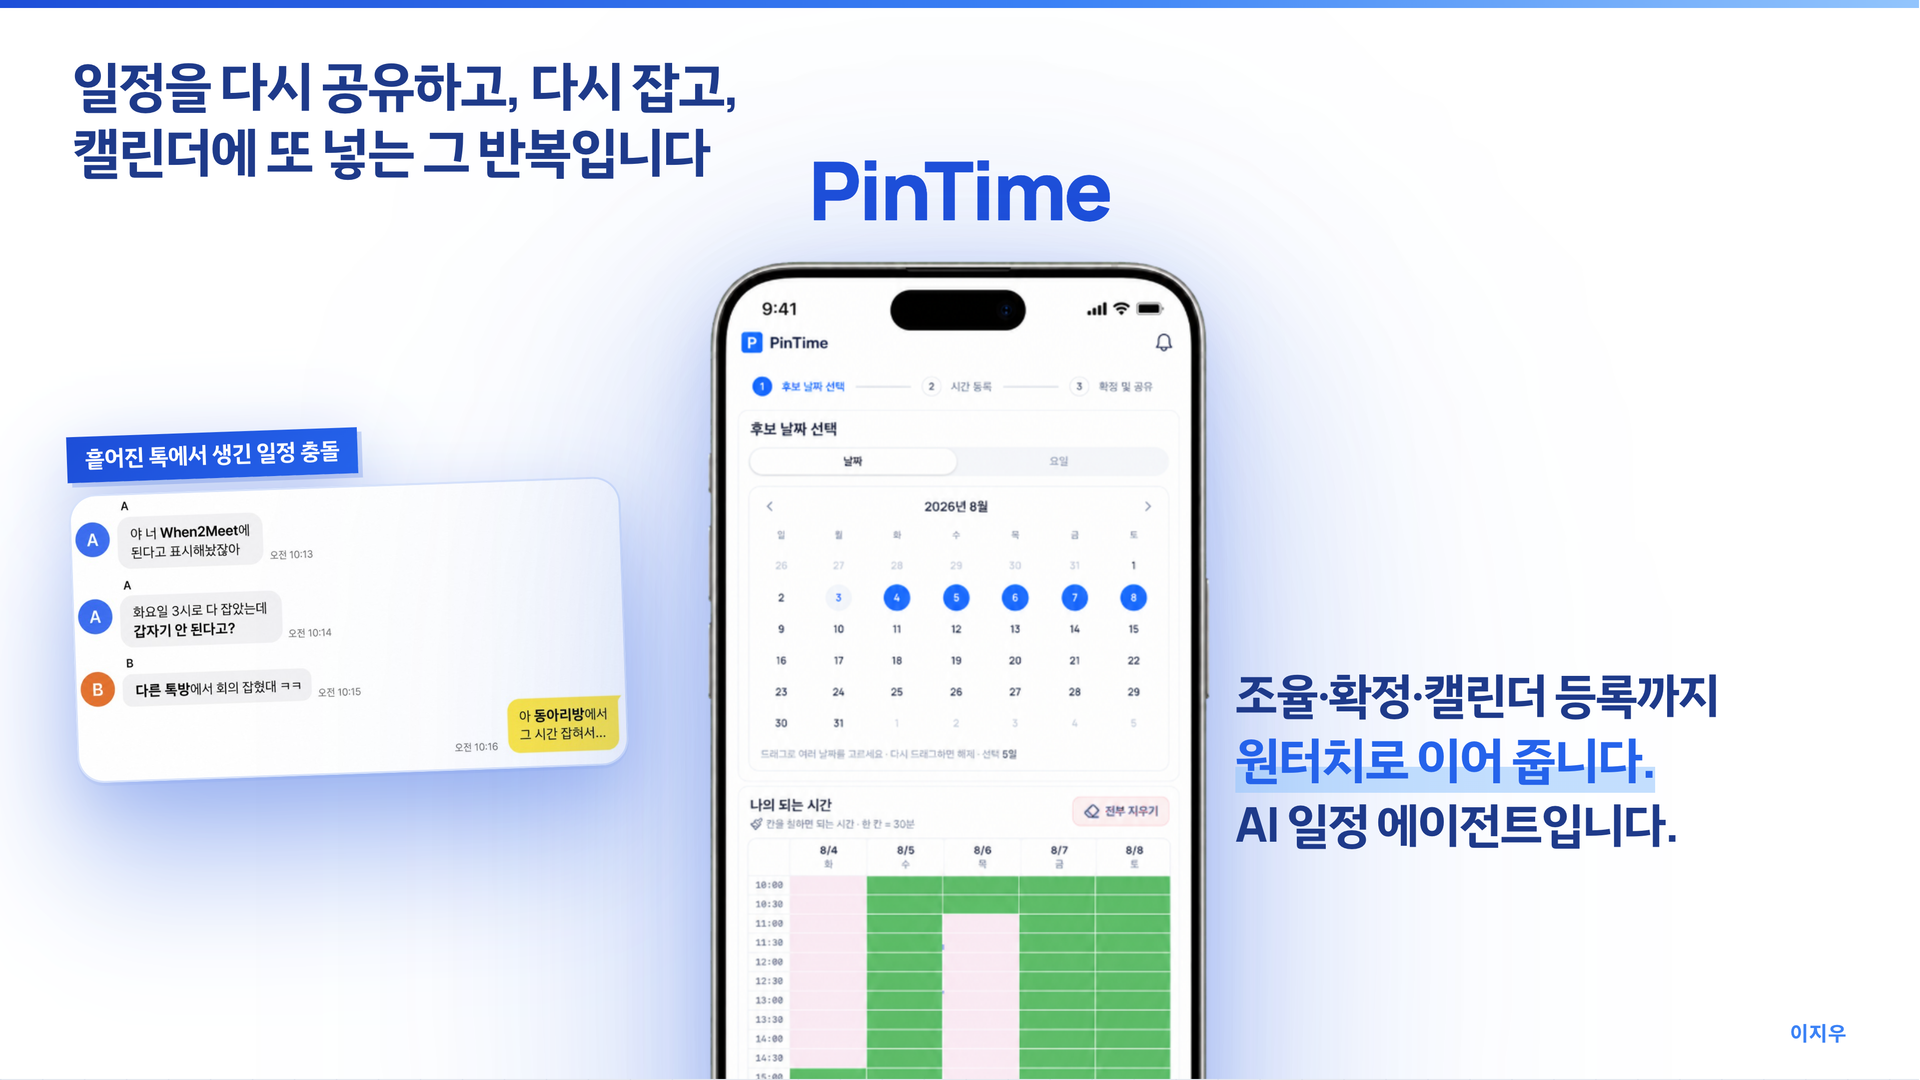
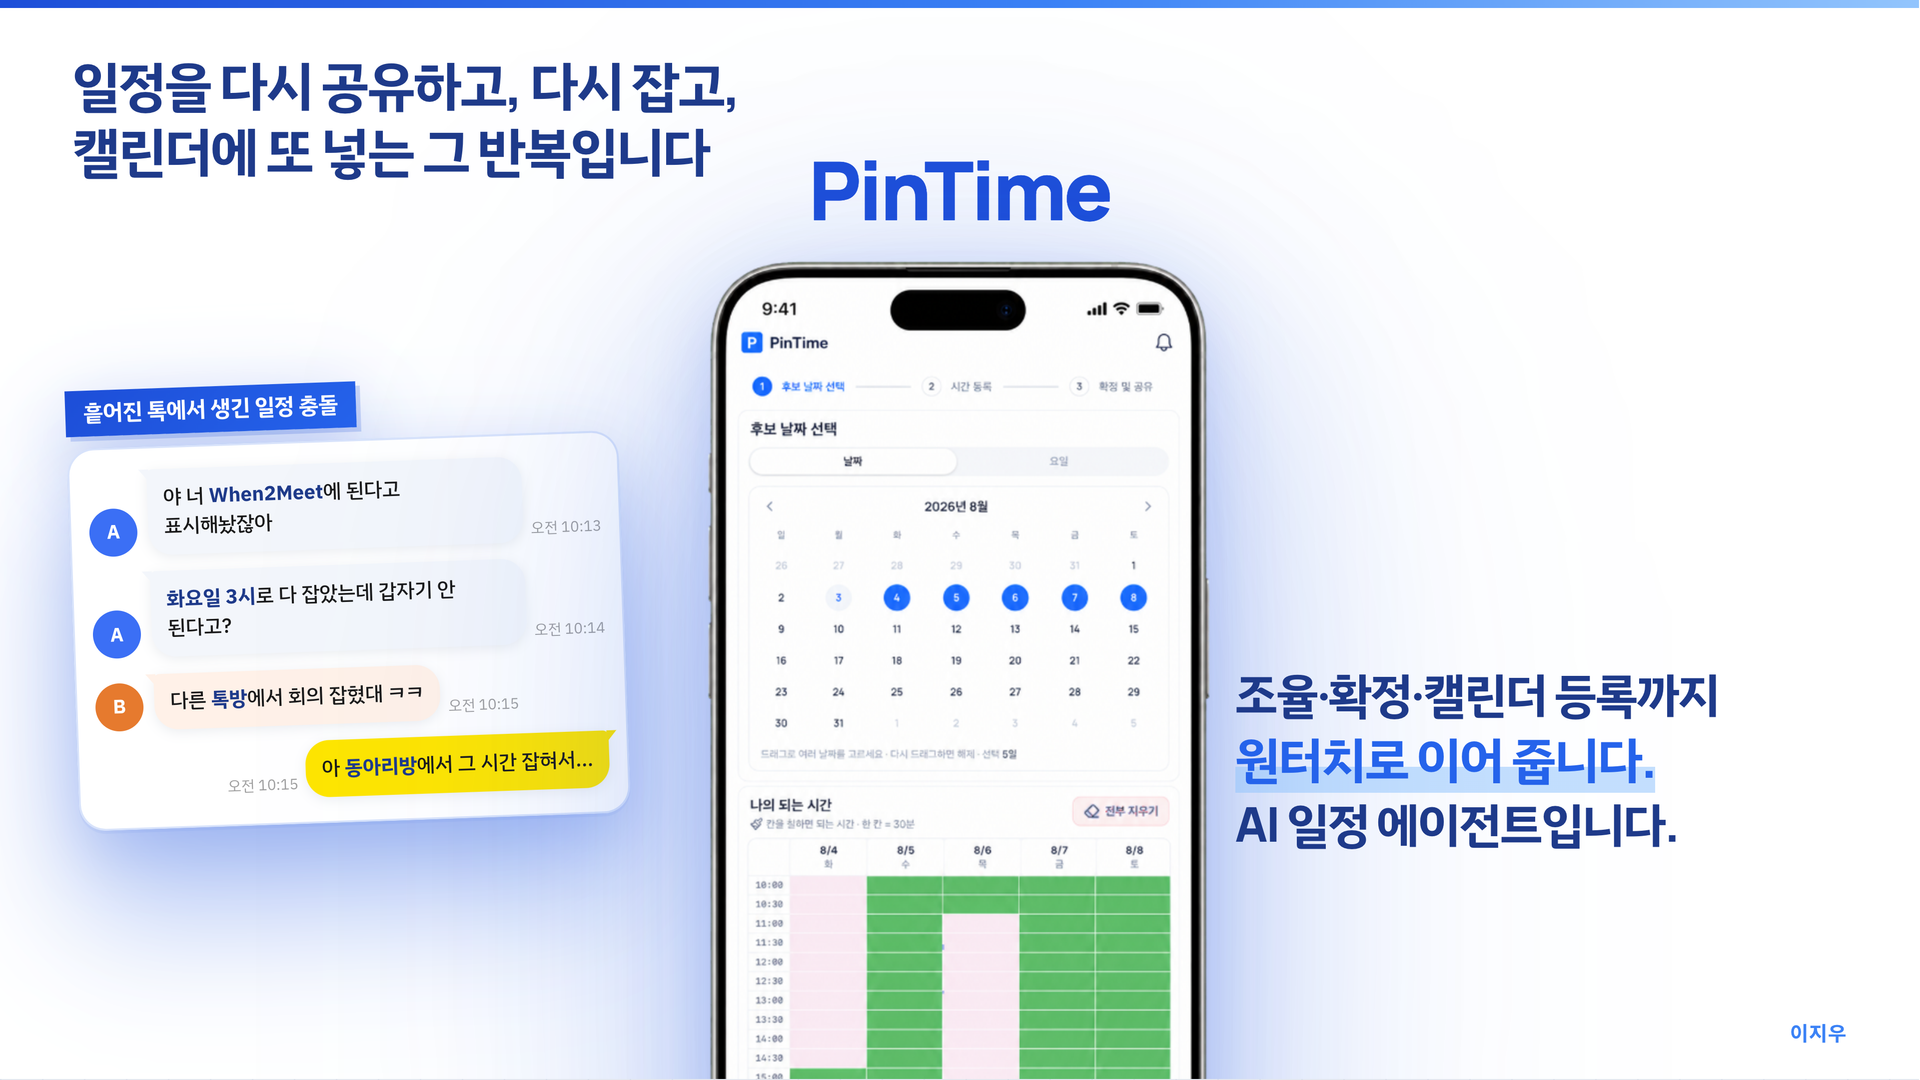
Replace cover Kakao image with live chat UI markup.

Changed region(s): [[0.0312, 0.5194, 0.3438, 0.825], [0.0312, 0.3361, 0.2188, 0.5194]]

diff --git a/public/pitch.html b/public/pitch.html
@@ -1248,12 +1248,122 @@
           0 72px 140px rgba(37, 99, 235, 0.16),
           0 2px 0 rgba(29, 78, 216, 0.06);
         background: #fff;
+        padding: 14px 12px 16px;
+        display: flex;
+        flex-direction: column;
+        gap: 11px;
+        font-family: 'IBM Plex Sans KR', -apple-system, sans-serif;
       }
 
-      .cover-chat img {
-        display: block;
-        width: 100%;
-        height: auto;
+      .cover-chat .cmsg {
+        display: flex;
+        align-items: flex-end;
+        gap: 7px;
+        max-width: 100%;
+      }
+
+      .cover-chat .cmsg.them {
+        align-self: flex-start;
+      }
+
+      .cover-chat .cmsg.me {
+        align-self: flex-end;
+        flex-direction: row-reverse;
+      }
+
+      .cover-chat .cav {
+        width: 32px;
+        height: 32px;
+        border-radius: 50%;
+        flex-shrink: 0;
+        display: grid;
+        place-items: center;
+        font-size: 13px;
+        font-weight: 800;
+        color: #fff;
+      }
+
+      .cover-chat .cav.a {
+        background: #3b6ff5;
+      }
+
+      .cover-chat .cav.b {
+        background: #e67a2e;
+      }
+
+      .cover-chat .cav.spacer {
+        visibility: hidden;
+      }
+
+      .cover-chat .crow {
+        display: flex;
+        align-items: flex-end;
+        gap: 5px;
+        min-width: 0;
+      }
+
+      .cover-chat .cmsg.me .crow {
+        flex-direction: row-reverse;
+      }
+
+      .cover-chat .cbubble {
+        position: relative;
+        padding: 9px 11px;
+        font-size: 13.5px;
+        line-height: 1.45;
+        color: #191919;
+        word-break: keep-all;
+        font-weight: 500;
+        box-shadow: 0 2px 8px rgba(15, 35, 80, 0.08);
+      }
+
+      .cover-chat .cbubble b {
+        font-weight: 800;
+        color: #1e3a8a;
+      }
+
+      .cover-chat .cbubble.them {
+        background: #f3f6fb;
+        border-radius: 4px 16px 16px 16px;
+      }
+
+      .cover-chat .cbubble.them.tint-b {
+        background: #fff1e8;
+      }
+
+      .cover-chat .cbubble.them::before {
+        content: '';
+        position: absolute;
+        left: -5px;
+        top: 0;
+        border-top: 8px solid #f3f6fb;
+        border-left: 7px solid transparent;
+      }
+
+      .cover-chat .cbubble.them.tint-b::before {
+        border-top-color: #fff1e8;
+      }
+
+      .cover-chat .cbubble.me {
+        background: #fee500;
+        border-radius: 16px 4px 16px 16px;
+      }
+
+      .cover-chat .cbubble.me::before {
+        content: '';
+        position: absolute;
+        right: -5px;
+        top: 0;
+        border-top: 8px solid #fee500;
+        border-right: 7px solid transparent;
+      }
+
+      .cover-chat .ctime {
+        font-size: 10px;
+        color: rgba(0, 0, 0, 0.38);
+        white-space: nowrap;
+        padding-bottom: 2px;
+        flex-shrink: 0;
       }
 
       .cover-phone-col {
@@ -2280,11 +2390,42 @@
           <div class="cover-stage">
             <div class="cover-chat-wrap">
               <div class="chat-label">흩어진 톡에서 생긴 일정 충돌</div>
-              <div class="cover-chat">
-                <img
-                  src="/pitch-shots/kakao-conflict.png"
-                  alt="일정 충돌이 난 카카오톡 대화"
-                />
+              <div class="cover-chat" aria-label="일정 충돌이 난 카카오톡 대화">
+                <div class="cmsg them">
+                  <div class="cav a">A</div>
+                  <div class="crow">
+                    <div class="cbubble them">
+                      야 너 <b>When2Meet</b>에 된다고 표시해놨잖아
+                    </div>
+                    <span class="ctime">오전 10:13</span>
+                  </div>
+                </div>
+                <div class="cmsg them">
+                  <div class="cav a">A</div>
+                  <div class="crow">
+                    <div class="cbubble them">
+                      <b>화요일 3시</b>로 다 잡았는데 갑자기 안 된다고?
+                    </div>
+                    <span class="ctime">오전 10:14</span>
+                  </div>
+                </div>
+                <div class="cmsg them">
+                  <div class="cav b">B</div>
+                  <div class="crow">
+                    <div class="cbubble them tint-b">
+                      다른 <b>톡방</b>에서 회의 잡혔대 ㅋㅋ
+                    </div>
+                    <span class="ctime">오전 10:15</span>
+                  </div>
+                </div>
+                <div class="cmsg me">
+                  <div class="crow">
+                    <div class="cbubble me">
+                      아 <b>동아리방</b>에서 그 시간 잡혀서...
+                    </div>
+                    <span class="ctime">오전 10:15</span>
+                  </div>
+                </div>
               </div>
             </div>
 
